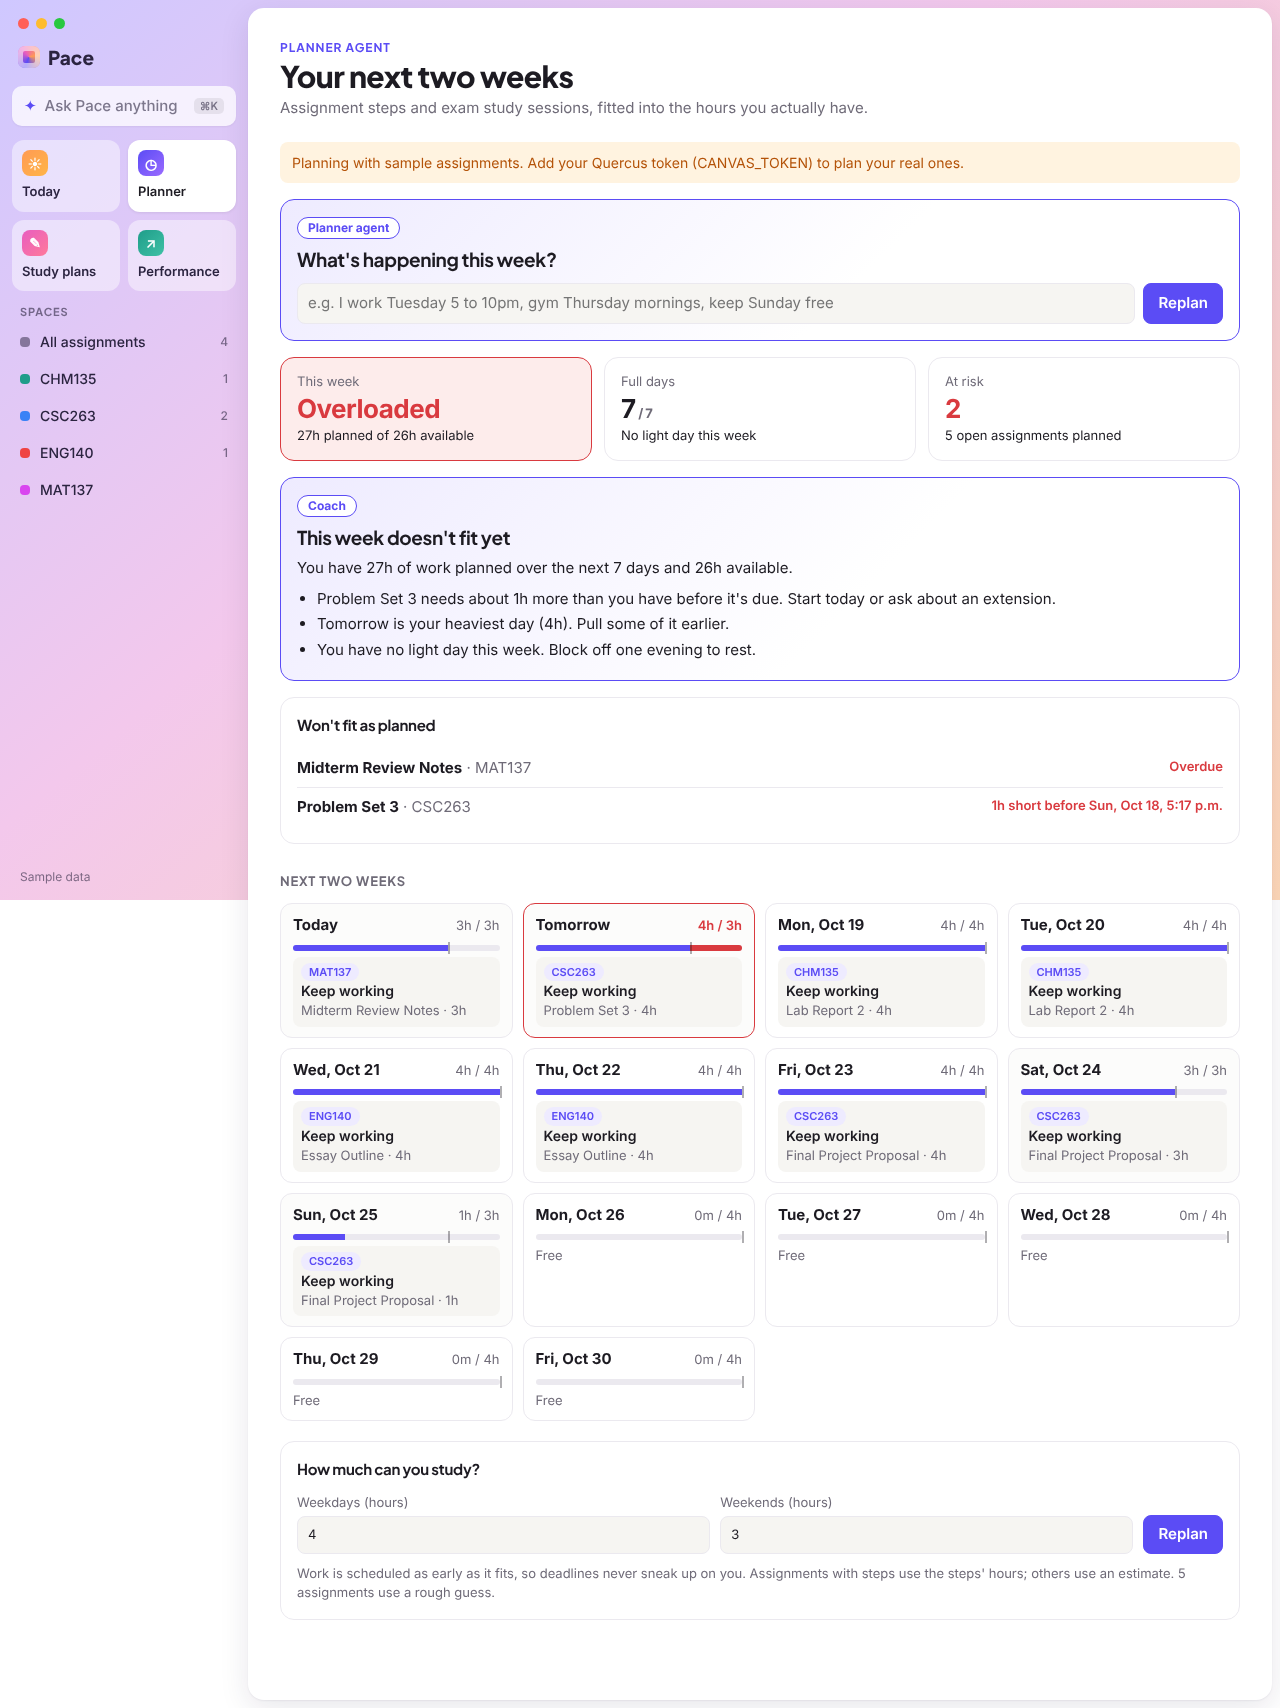
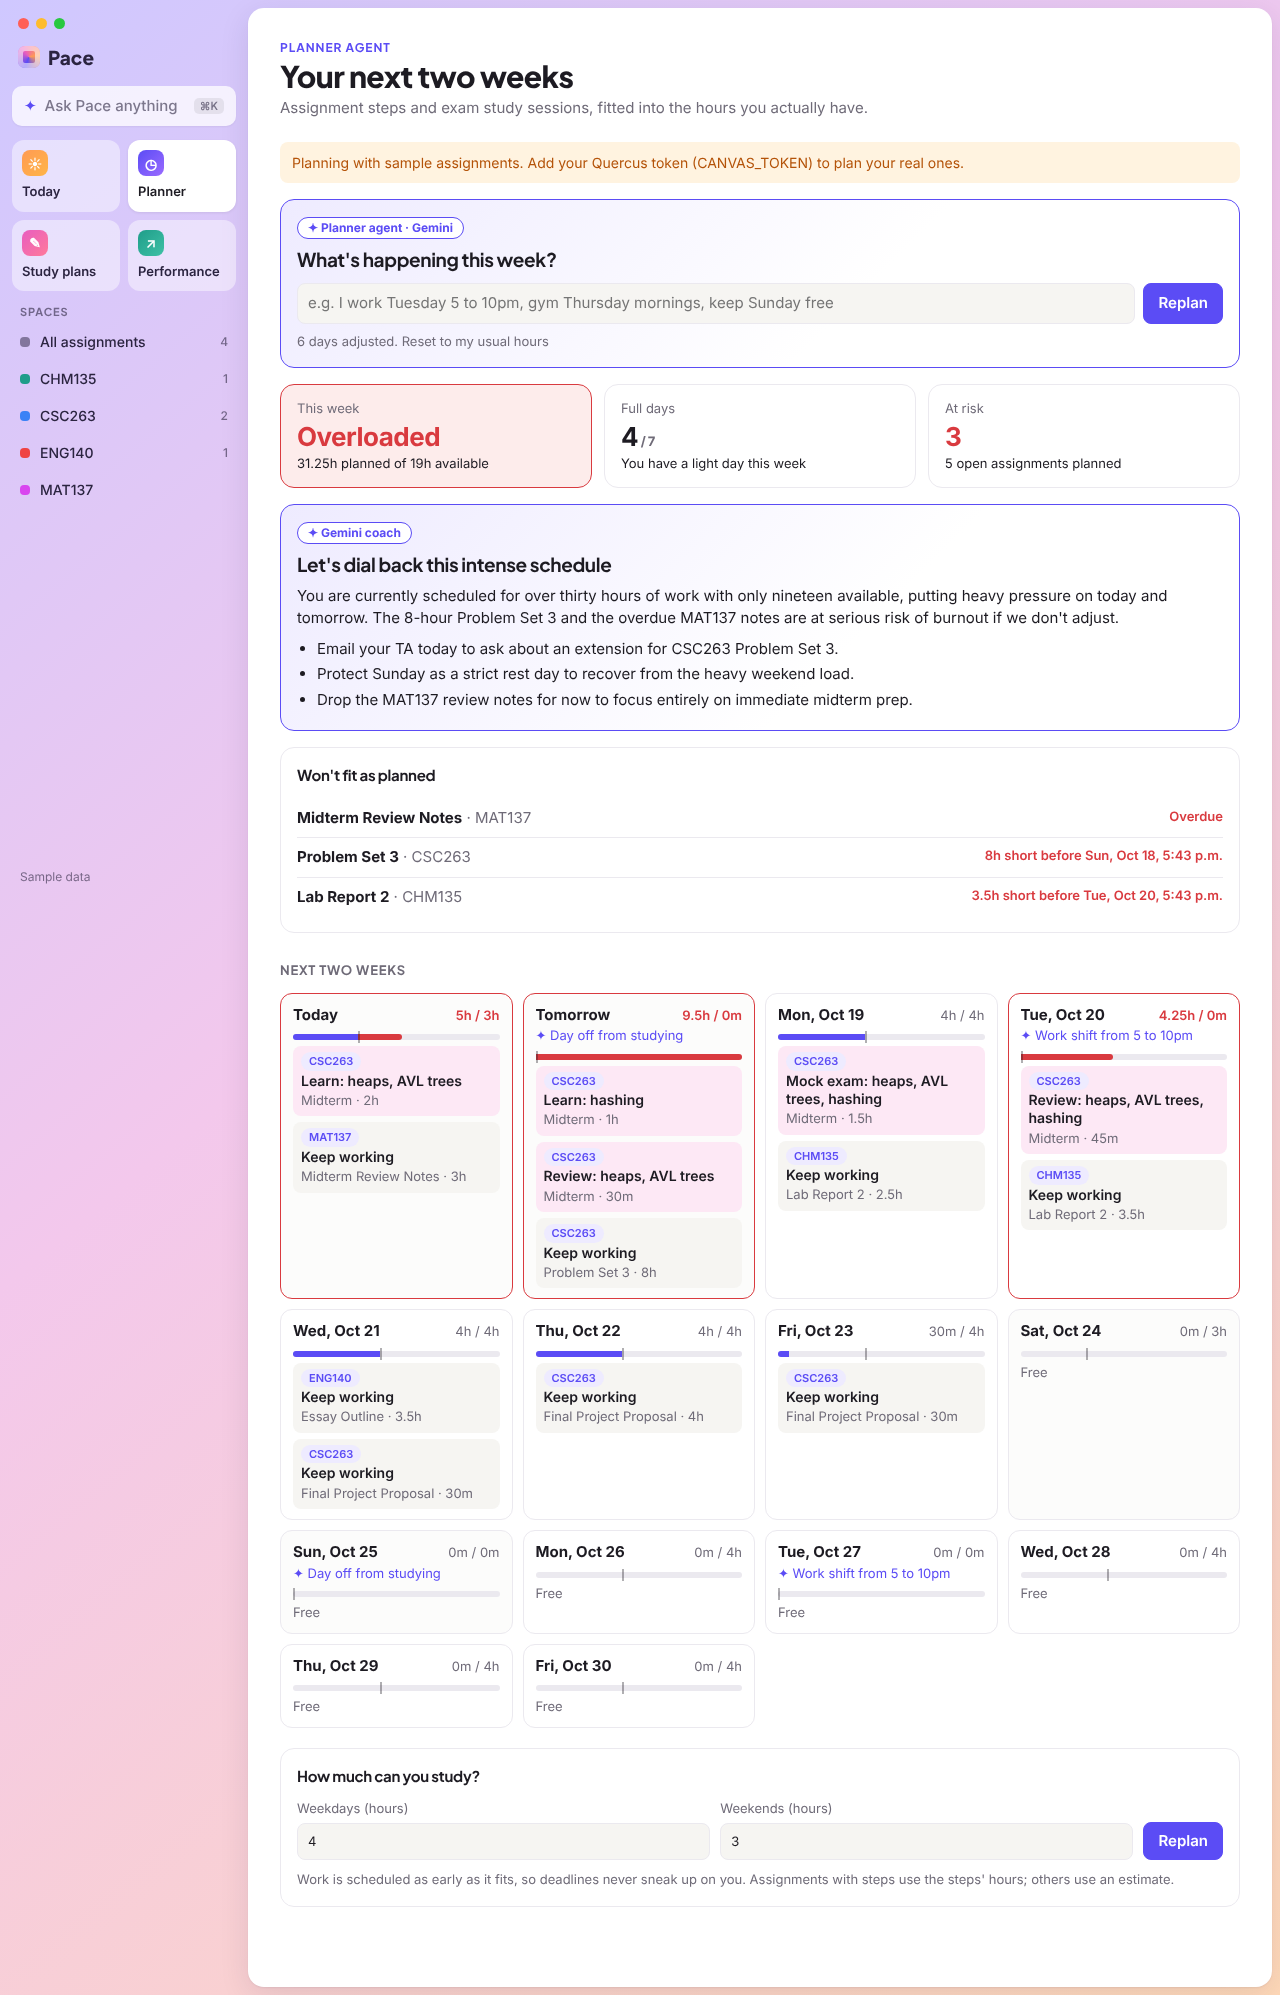
Make Gemini calls work on the free tier
- Default to gemini-flash-latest: 2.5 Flash returns 404 for new API keys
- Walk a chain of models on 429/404/403/5xx, since the free tier allows
  about 5 requests a minute per model
- Route short tasks (command bar, planner, coach, insights, quiz) to
  Flash-Lite models first, which answer in 1 to 3 seconds
- Ignore thought parts in responses; strip markdown from command answers
- Planner agent applies a lone weekday to its next occurrence only
- Screenshots taken with real Gemini output

Claude-Session: https://claude.ai/code/session_01FPYw9Dp9k9oqiNXnEwwTGN

diff --git a/lib/gemini.ts b/lib/gemini.ts
@@ -1,7 +1,11 @@
 // Minimal Gemini API client (REST, no SDK). Every caller has a non-AI fallback,
 // so the app keeps working without GEMINI_API_KEY or when the API is down.
 
-const MODEL = process.env.GEMINI_MODEL || "gemini-2.5-flash";
+// The free tier allows only a few requests per minute per model, so each call walks a
+// chain of models and moves on when one is rate-limited. "latest" aliases come first
+// because Google retires pinned versions for new keys (2.5 Flash already 404s).
+const SMART = [process.env.GEMINI_MODEL || "gemini-flash-latest", "gemini-3.7-flash", "gemini-3.6-flash", "gemini-3.5-flash"];
+const FAST = ["gemini-flash-lite-latest", "gemini-3.5-flash-lite", "gemini-3.1-flash-lite"];
 const ENDPOINT = process.env.GEMINI_ENDPOINT || "https://generativelanguage.googleapis.com/v1beta/models";
 
 export const hasGemini = () => !!process.env.GEMINI_API_KEY;
@@ -15,6 +19,7 @@ interface GeminiOptions {
   search?: boolean; // ground the answer with Google Search
   functions?: { name: string; description: string; parameters: Schema }[]; // let Gemini pick a tool
   temperature?: number;
+  fast?: boolean; // short, simple tasks: start with the Flash-Lite models
 }
 
 export interface GeminiResult<T> {
@@ -33,24 +38,37 @@ export async function gemini<T>(opts: GeminiOptions): Promise<GeminiResult<T>> {
     generationConfig.responseSchema = opts.schema;
   }
 
-  const res = await fetch(`${ENDPOINT}/${MODEL}:generateContent`, {
-    method: "POST",
-    headers: { "content-type": "application/json", "x-goog-api-key": process.env.GEMINI_API_KEY! },
-    body: JSON.stringify({
-      systemInstruction: { parts: [{ text: opts.system }] },
-      contents: [{ role: "user", parts: [{ text: opts.prompt }] }],
-      generationConfig,
-      ...(opts.search ? { tools: [{ google_search: {} }] } : {}),
-      ...(opts.functions ? { tools: [{ functionDeclarations: opts.functions }] } : {}),
-    }),
-    signal: AbortSignal.timeout(25_000),
-    cache: "no-store",
-  });
+  const started = Date.now();
+  const send = (model: string) =>
+    fetch(`${ENDPOINT}/${model}:generateContent`, {
+      method: "POST",
+      headers: { "content-type": "application/json", "x-goog-api-key": process.env.GEMINI_API_KEY! },
+      body: JSON.stringify({
+        systemInstruction: { parts: [{ text: opts.system }] },
+        contents: [{ role: "user", parts: [{ text: opts.prompt }] }],
+        generationConfig,
+        ...(opts.search ? { tools: [{ google_search: {} }] } : {}),
+        ...(opts.functions ? { tools: [{ functionDeclarations: opts.functions }] } : {}),
+      }),
+      signal: AbortSignal.timeout(Math.max(5_000, 26_000 - (Date.now() - started))),
+      cache: "no-store",
+    });
+
+  // Rate limits (429), retired models (404), keys still propagating (403) and outages (5xx): try the next model.
+  const chain = opts.fast ? [...FAST, ...SMART] : [...SMART, ...FAST];
+  let res: Response | null = null;
+  for (const model of chain) {
+    if (res && Date.now() - started > 20_000) break;
+    res = await send(model);
+    if (![403, 404, 429, 500, 503].includes(res.status)) break;
+  }
+  res = res!;
   if (!res.ok) throw new Error(`Gemini ${res.status}: ${(await res.text()).slice(0, 300)}`);
 
   const body = await res.json();
   const cand = body.candidates?.[0];
-  const parts = (cand?.content?.parts ?? []) as { text?: string; functionCall?: { name: string; args?: Record<string, unknown> } }[];
+  const parts = ((cand?.content?.parts ?? []) as { text?: string; thought?: boolean; functionCall?: { name: string; args?: Record<string, unknown> } }[])
+    .filter((p) => !p.thought);
   const fc = parts.find((p) => p.functionCall)?.functionCall;
   const text = parts.map((p) => p.text ?? "").join("");
   if (fc) return { data: text.trim() as T, sources: [], call: { name: fc.name, args: fc.args ?? {} } };

diff --git a/lib/ai.ts b/lib/ai.ts
@@ -97,6 +97,7 @@ export async function estimateHours(list: Assignment[]): Promise<Record<string, 
       "Estimate the total hours an average undergraduate needs to complete each assignment below, including reading, " +
       "research, doing the work and checking it. Return one entry per id.\n\n" +
       list.map((a) => `--- id: ${a.id}\n${describe(a).slice(0, 1500)}`).join("\n\n"),
+    fast: true,
     schema: {
       type: "ARRAY",
       items: { type: "OBJECT", properties: { id: { type: "STRING" }, hours: { type: "NUMBER" } }, required: ["id", "hours"] },
@@ -125,6 +126,7 @@ export async function suggestResources(a: Assignment): Promise<{ concepts: strin
         prompt:
           `${describe(a)}\n\nList the 3 to 6 key concepts or skills the student needs for this assignment. ` +
           "For each, say in one sentence why it matters here, and give a precise search query (under 8 words) that would find a good explainer or source.",
+        fast: true,
         schema: {
           type: "OBJECT",
           properties: {
@@ -210,6 +212,7 @@ export async function coach(plan: Plan, settings: Settings): Promise<Coaching> {
           `${summary}\n\nWrite a short coaching note for this week. headline: under 10 words. message: 2 to 3 sentences, ` +
           "specific about which days and assignments matter most. tips: 2 to 3 concrete actions (e.g. start X on Tuesday, " +
           "ask for an extension on Y, protect Sunday as a rest day). Be warm and direct; don't repeat the numbers verbatim.",
+        fast: true,
         schema: {
           type: "OBJECT",
           properties: { headline: { type: "STRING" }, message: { type: "STRING" }, tips: { type: "ARRAY", items: { type: "STRING" } } },

diff --git a/lib/agents/planner.ts b/lib/agents/planner.ts
@@ -34,7 +34,7 @@ export async function applyInstruction(instruction: string, settings: Settings):
       const { data } = await gemini<{ changes: ScheduleChange["changes"]; weekdayHours: number | null; weekendHours: number | null; reply: string }>({
         system:
           "You manage a student's study-hours calendar. Convert their message into changes. A day's hours are how many hours they can study that day " +
-          "(0 to 12). A shift or event reduces that day's hours by its length; 'day off from studying' means 0. Recurring things ('every Thursday') apply to each matching date listed. " +
+          "(0 to 12). A shift or event reduces that day's hours by its length; 'day off from studying' means 0. A weekday name on its own means only its next occurrence; only recurring wording ('every Thursday', 'Tuesdays') applies to each matching date. " +
           "Only change weekdayHours or weekendHours if they describe their usual routine. reply is one friendly sentence confirming what changed.",
         prompt:
           `Usual study hours: weekdays ${settings.weekdayHours}h, weekends ${settings.weekendHours}h.\n` +
@@ -58,6 +58,7 @@ export async function applyInstruction(instruction: string, settings: Settings):
           required: ["changes", "reply"],
         },
         temperature: 0.2,
+        fast: true,
       });
       const valid = new Set(days.map((d) => d.key));
       changes = (data.changes ?? []).filter((c) => valid.has(c.date)).map((c) => ({ date: c.date, hours: clamp(c.hours), reason: String(c.reason).slice(0, 80) }));

diff --git a/lib/agents/router.ts b/lib/agents/router.ts
@@ -56,6 +56,7 @@ export async function route(text: string, assignments: Assignment[], context = "
           "Call the right function for the request. If none fits, answer briefly yourself (under 60 words) using the plan above.",
         prompt: text.slice(0, 800),
         functions: FUNCTIONS,
+        fast: true,
         temperature: 0.2,
       });
       if (call) {
@@ -66,7 +67,7 @@ export async function route(text: string, assignments: Assignment[], context = "
         if (call.name === "quiz_me") return { agent: "quiz", courseCode: String(a.courseCode ?? ""), topic: String(a.topic ?? "") };
         if (call.name === "open_assignment" && assignments.some((x) => x.id === a.assignmentId)) return { agent: "open", assignmentId: String(a.assignmentId) };
       }
-      if (data) return { agent: "answer", text: data };
+      if (data) return { agent: "answer", text: data.replace(/\*\*/g, "") };
     } catch (e) {
       console.error("router", e);
     }

diff --git a/lib/agents/performance.ts b/lib/agents/performance.ts
@@ -77,6 +77,7 @@ export async function insights(stats: CourseStats[], mastery: Mastery[]): Promis
         prompt:
           `${summary}\n\nGive 3 insights. Each has a short title (under 8 words), a one sentence detail with a concrete next action, and a tone: ` +
           "good (going well), watch (slipping) or act (needs attention now). Then one sentence 'focus' for this week.",
+        fast: true,
         schema: {
           type: "OBJECT",
           properties: {
@@ -147,6 +148,7 @@ export async function makeQuiz(courseCode: string, topic: string, related: Assig
       required: ["questions"],
     },
     temperature: 0.8,
+    fast: true, // the bigger models think for 20s+ on a quiz; Flash-Lite answers in a few seconds
   });
   return (data.questions ?? []).filter((q) => q.options?.length >= 2 && q.answer >= 0 && q.answer < q.options.length).slice(0, 5);
 }

diff --git a/lib/agents/study.ts b/lib/agents/study.ts
@@ -97,6 +97,7 @@ export async function createStudyPlan(req: StudyRequest, related: Assignment[], 
       const { data } = await gemini<{ topics: string[] }>({
         system: "You help university students prepare for exams.",
         prompt: `${context}\n\nList the 3 to 8 topics this exam most likely covers, as short names (2 to 5 words).`,
+        fast: true,
         schema: { type: "OBJECT", properties: { topics: { type: "ARRAY", items: { type: "STRING" } } }, required: ["topics"] },
       });
       topics = (data.topics ?? []).slice(0, 8);

diff --git a/SUBMISSION.md b/SUBMISSION.md
@@ -22,7 +22,7 @@ Pace connects to Quercus and gives you a team of AI agents powered by Google Gem
 It deliberately helps students plan, understand and practise; it never writes graded work.
 
 ### How we built it
-Next.js 15 (App Router, React 19, TypeScript) on Vercel. Quercus data comes from the Canvas LMS REST API, including submissions and grades. Gemini 2.5 Flash is called over REST in two ways: structured JSON output with response schemas, so every agent returns typed data the app can schedule, and function calling for the command bar's routing. The planner and the spaced-repetition engine are our own deterministic algorithms, so the AI decides *what* and the code decides *when*. Upstash Redis stores progress, study plans, mastery and a cache of AI answers. Vercel Cron and Resend send the email. The UI is inspired by the Arc browser: a sidebar on a gradient frame, courses as coloured spaces and a ⌘K command bar. The whole stack runs on free tiers.
+Next.js 15 (App Router, React 19, TypeScript) on Vercel. Quercus data comes from the Canvas LMS REST API, including submissions and grades. Gemini Flash is called over REST in two ways: structured JSON output with response schemas, so every agent returns typed data the app can schedule, and function calling for the command bar's routing. The planner and the spaced-repetition engine are our own deterministic algorithms, so the AI decides *what* and the code decides *when*. Upstash Redis stores progress, study plans, mastery and a cache of AI answers. Vercel Cron and Resend send the email. The UI is inspired by the Arc browser: a sidebar on a gradient frame, courses as coloured spaces and a ⌘K command bar. The whole stack runs on free tiers.
 
 ### Challenges we ran into
 Making LLM output safe to build on: schemas plus clamping of every estimate. Splitting work between AI and algorithms, so plans stay explainable and repeatable. Keeping a live demo bulletproof: every agent has a rule-based fallback. Time zones: a 9am deadline means the work has to be finished the day before.

diff --git a/README.md b/README.md
@@ -33,7 +33,7 @@ The interface borrows from the Arc browser: a translucent sidebar on a soft grad
 ## Tech stack
 
 - **Next.js 15** (App Router, React 19, TypeScript) on **Vercel**, with Vercel Cron for the 8am email
-- **Google Gemini API** (`gemini-2.5-flash`, free tier) over REST: structured JSON output and function calling
+- **Google Gemini API** (`gemini-flash-latest`, free tier) over REST: structured JSON output and function calling
 - **Canvas LMS REST API** for Quercus assignments, instructions, submissions and grades
 - **Upstash Redis** for progress, steps, study plans, mastery, settings and an AI answer cache
 - **Resend** for email, `sanitize-html` for instructor HTML
@@ -52,7 +52,7 @@ Quercus ─▶ canvas.ts ─▶ planner.ts (scheduler, burnout signals) ─▶ T
 2. **Gemini key** (free, no billing needed): [aistudio.google.com/apikey](https://aistudio.google.com/apikey).
 3. **Resend**: sign up with the address you want reminders at and create an API key.
 4. **Vercel**: import this repo and add **Upstash for Redis** from the *Storage* tab.
-5. **Environment variables** (tick Production): `CANVAS_TOKEN`, `GEMINI_API_KEY`, `APP_PASSWORD`, `RESEND_API_KEY`, `REMINDER_TO`, `CRON_SECRET`, `APP_URL`. Optional: `GEMINI_MODEL`, `REMIND_DAYS`, `REMINDER_FROM`, `CANVAS_BASE_URL` (any Canvas school).
+5. **Environment variables** (tick Production): `CANVAS_TOKEN`, `GEMINI_API_KEY`, `APP_PASSWORD`, `RESEND_API_KEY`, `REMINDER_TO`, `CRON_SECRET`, `APP_URL`. Optional: `GEMINI_MODEL` (default `gemini-flash-latest`), `REMIND_DAYS`, `REMINDER_FROM`, `CANVAS_BASE_URL` (any Canvas school).
 6. Redeploy.
 
 ## Local development
